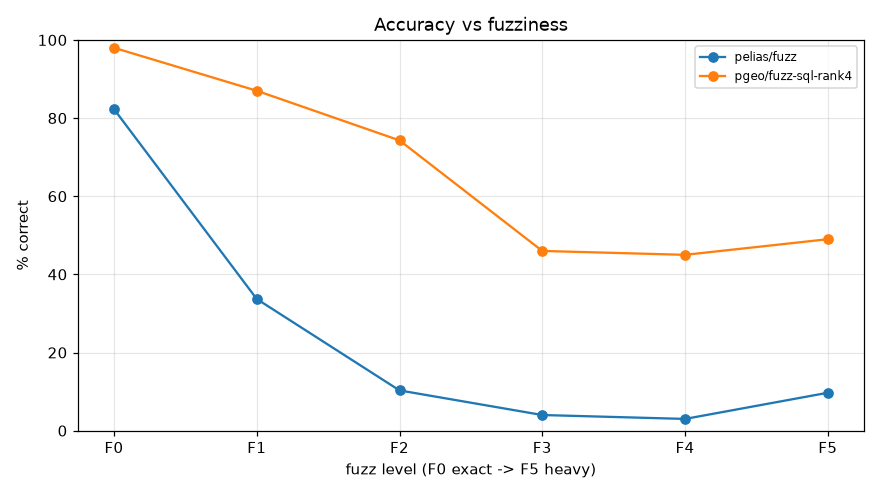
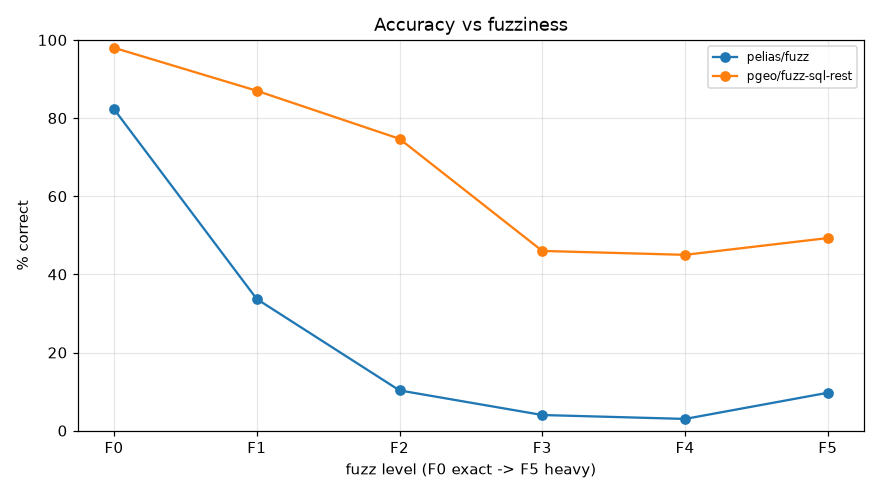
pgeo: address lookup across all towns for the best street names
Fixes false certainty for ambiguous addresses ('21 Church St, Maine'); wrong-answer
confidence 0.73 -> 0.69. Accuracy report regenerated (pgeo 95.8% vs Pelias 75.5%).

diff --git a/docs/ACCURACY_RESULTS.md b/docs/ACCURACY_RESULTS.md
@@ -7,36 +7,36 @@ Test set: `tests/accuracy/cases.json` (seeded; ground truth from the source data
 | Engine / config | Correct | hit@1 | hit@5 | Median error (m) | No result | Conf. when right | Conf. when wrong | p50 ms |
 |---|---|---|---|---|---|---|---|---|
 | pelias/default | 76% | 77% | 84% | 0.0 | 5% | 0.983 | 0.87 | 13.3 |
-| pgeo/api-rule-rank4 | 96% | 94% | 98% | 0.0 | 4% | 0.917 | 0.725 | 45.5 |
-| pgeo/api-service-rank4 | 94% | 92% | 97% | 0.0 | 4% | 0.915 | 0.609 | 44.4 |
-| pgeo/sql-rank4 | 96% | 94% | 98% | 0.0 | 4% | 0.917 | 0.725 | 39.6 |
+| pgeo/api-rule | 96% | 94% | 98% | 0.0 | 4% | 0.918 | 0.686 | 45.6 |
+| pgeo/api-service | 94% | 92% | 97% | 0.0 | 4% | 0.915 | 0.604 | 44.7 |
+| pgeo/sql-rest | 96% | 94% | 98% | 0.0 | 4% | 0.918 | 0.686 | 39.2 |
 
 ## By query quality
 
 | Engine / config | exact | typo | variant | miss |
 |---|---|---|---|---|
 | pelias/default | 88% | 30% | 85% | 41% |
-| pgeo/api-rule-rank4 | 98% | 87% | 95% | 95% |
-| pgeo/api-service-rank4 | 95% | 87% | 93% | 94% |
-| pgeo/sql-rank4 | 98% | 87% | 95% | 95% |
+| pgeo/api-rule | 98% | 87% | 95% | 95% |
+| pgeo/api-service | 96% | 87% | 93% | 94% |
+| pgeo/sql-rest | 98% | 87% | 95% | 95% |
 
 ## By endpoint
 
 | Engine / config | search | structured | autocomplete | reverse |
 |---|---|---|---|---|
 | pelias/default | 66% | 97% | 87% | 100% |
-| pgeo/api-rule-rank4 | 94% | 100% | 95% | 100% |
-| pgeo/api-service-rank4 | 92% | 100% | 95% | 100% |
-| pgeo/sql-rank4 | 94% | 100% | 95% | 100% |
+| pgeo/api-rule | 95% | 100% | 95% | 100% |
+| pgeo/api-service | 92% | 100% | 95% | 100% |
+| pgeo/sql-rest | 95% | 100% | 95% | 100% |
 
 ## By kind of place
 
 | Engine / config | address | town | lake_summit | venue | zip | reverse_address | miss |
 |---|---|---|---|---|---|---|---|
 | pelias/default | 88% | 81% | 37% | 60% | 100% | 100% | 41% |
-| pgeo/api-rule-rank4 | 98% | 96% | 87% | 94% | 98% | 100% | 95% |
-| pgeo/api-service-rank4 | 98% | 96% | 76% | 89% | 98% | 100% | 94% |
-| pgeo/sql-rank4 | 98% | 96% | 87% | 94% | 98% | 100% | 95% |
+| pgeo/api-rule | 98% | 96% | 87% | 94% | 98% | 100% | 95% |
+| pgeo/api-service | 98% | 96% | 76% | 89% | 98% | 100% | 94% |
+| pgeo/sql-rest | 98% | 96% | 87% | 94% | 98% | 100% | 95% |
 
 ## Search detail (endpoint / query type)
 
@@ -49,40 +49,40 @@ Test set: `tests/accuracy/cases.json` (seeded; ground truth from the source data
 | pelias/default | search/typo | 198 | 30% | 30% | 40% | 5249.5 | 13% |
 | pelias/default | search/variant | 149 | 85% | 85% | 87% | 0.0 | 0% |
 | pelias/default | structured/exact | 150 | 97% | 97% | 97% | 0.0 | 0% |
-| pgeo/api-rule-rank4 | autocomplete/exact | 150 | 95% | 81% | 95% | 0.0 | 0% |
-| pgeo/api-rule-rank4 | reverse/exact | 200 | 100% | 100% | 100% | 0.0 | 0% |
-| pgeo/api-rule-rank4 | search/exact | 563 | 97% | 97% | 99% | 0.0 | 0% |
-| pgeo/api-rule-rank4 | search/miss | 150 | 95% | - | - | None | 39% |
-| pgeo/api-rule-rank4 | search/typo | 198 | 87% | 87% | 95% | 0.0 | 2% |
-| pgeo/api-rule-rank4 | search/variant | 149 | 95% | 95% | 97% | 0.0 | 0% |
-| pgeo/api-rule-rank4 | structured/exact | 150 | 100% | 100% | 100% | 0.0 | 0% |
-| pgeo/api-service-rank4 | autocomplete/exact | 150 | 95% | 81% | 95% | 0.0 | 0% |
-| pgeo/api-service-rank4 | reverse/exact | 200 | 100% | 100% | 100% | 0.0 | 0% |
-| pgeo/api-service-rank4 | search/exact | 563 | 93% | 93% | 97% | 0.0 | 0% |
-| pgeo/api-service-rank4 | search/miss | 150 | 94% | - | - | None | 38% |
-| pgeo/api-service-rank4 | search/typo | 198 | 87% | 87% | 94% | 0.0 | 2% |
-| pgeo/api-service-rank4 | search/variant | 149 | 93% | 93% | 94% | 0.0 | 3% |
-| pgeo/api-service-rank4 | structured/exact | 150 | 100% | 100% | 100% | 0.0 | 0% |
-| pgeo/sql-rank4 | autocomplete/exact | 150 | 95% | 81% | 95% | 0.0 | 0% |
-| pgeo/sql-rank4 | reverse/exact | 200 | 100% | 100% | 100% | 0.0 | 0% |
-| pgeo/sql-rank4 | search/exact | 563 | 97% | 97% | 99% | 0.0 | 0% |
-| pgeo/sql-rank4 | search/miss | 150 | 95% | - | - | None | 39% |
-| pgeo/sql-rank4 | search/typo | 198 | 87% | 87% | 95% | 0.0 | 2% |
-| pgeo/sql-rank4 | search/variant | 149 | 95% | 95% | 97% | 0.0 | 0% |
-| pgeo/sql-rank4 | structured/exact | 150 | 100% | 100% | 100% | 0.0 | 0% |
+| pgeo/api-rule | autocomplete/exact | 150 | 95% | 81% | 95% | 0.0 | 0% |
+| pgeo/api-rule | reverse/exact | 200 | 100% | 100% | 100% | 0.0 | 0% |
+| pgeo/api-rule | search/exact | 563 | 97% | 97% | 99% | 0.0 | 0% |
+| pgeo/api-rule | search/miss | 150 | 95% | - | - | None | 39% |
+| pgeo/api-rule | search/typo | 198 | 87% | 87% | 95% | 0.0 | 2% |
+| pgeo/api-rule | search/variant | 149 | 95% | 95% | 97% | 0.0 | 0% |
+| pgeo/api-rule | structured/exact | 150 | 100% | 100% | 100% | 0.0 | 0% |
+| pgeo/api-service | autocomplete/exact | 150 | 95% | 81% | 95% | 0.0 | 0% |
+| pgeo/api-service | reverse/exact | 200 | 100% | 100% | 100% | 0.0 | 0% |
+| pgeo/api-service | search/exact | 563 | 93% | 93% | 97% | 0.0 | 0% |
+| pgeo/api-service | search/miss | 150 | 94% | - | - | None | 38% |
+| pgeo/api-service | search/typo | 198 | 87% | 87% | 94% | 0.0 | 2% |
+| pgeo/api-service | search/variant | 149 | 93% | 93% | 94% | 0.0 | 3% |
+| pgeo/api-service | structured/exact | 150 | 100% | 100% | 100% | 0.0 | 0% |
+| pgeo/sql-rest | autocomplete/exact | 150 | 95% | 81% | 95% | 0.0 | 0% |
+| pgeo/sql-rest | reverse/exact | 200 | 100% | 100% | 100% | 0.0 | 0% |
+| pgeo/sql-rest | search/exact | 563 | 97% | 97% | 99% | 0.0 | 0% |
+| pgeo/sql-rest | search/miss | 150 | 95% | - | - | None | 39% |
+| pgeo/sql-rest | search/typo | 198 | 87% | 87% | 95% | 0.0 | 2% |
+| pgeo/sql-rest | search/variant | 149 | 95% | 95% | 97% | 0.0 | 0% |
+| pgeo/sql-rest | structured/exact | 150 | 100% | 100% | 100% | 0.0 | 0% |
 
 ```mermaid
 xychart-beta
     title "Correct % on exact queries"
-    x-axis ["pelias/default", "pgeo/api-rule-rank4", "pgeo/api-service-rank4", "pgeo/sql-rank4"]
+    x-axis ["pelias/default", "pgeo/api-rule", "pgeo/api-service", "pgeo/sql-rest"]
     y-axis "%" 0 --> 100
-    bar [88, 98, 95, 98]
+    bar [88, 98, 96, 98]
 ```
 
 ```mermaid
 xychart-beta
     title "Correct % on typo queries"
-    x-axis ["pelias/default", "pgeo/api-rule-rank4", "pgeo/api-service-rank4", "pgeo/sql-rank4"]
+    x-axis ["pelias/default", "pgeo/api-rule", "pgeo/api-service", "pgeo/sql-rest"]
     y-axis "%" 0 --> 100
     bar [30, 87, 87, 87]
 ```
@@ -90,7 +90,7 @@ xychart-beta
 ```mermaid
 xychart-beta
     title "Correct % on variant queries"
-    x-axis ["pelias/default", "pgeo/api-rule-rank4", "pgeo/api-service-rank4", "pgeo/sql-rank4"]
+    x-axis ["pelias/default", "pgeo/api-rule", "pgeo/api-service", "pgeo/sql-rest"]
     y-axis "%" 0 --> 100
     bar [85, 95, 93, 95]
 ```
@@ -98,7 +98,7 @@ xychart-beta
 ```mermaid
 xychart-beta
     title "Correct % on miss queries"
-    x-axis ["pelias/default", "pgeo/api-rule-rank4", "pgeo/api-service-rank4", "pgeo/sql-rank4"]
+    x-axis ["pelias/default", "pgeo/api-rule", "pgeo/api-service", "pgeo/sql-rest"]
     y-axis "%" 0 --> 100
     bar [41, 95, 94, 95]
 ```
@@ -110,35 +110,35 @@ Same 300 base queries at every level: F0 exact, F1 one typo, F2 two, F3 three + 
 | Engine / config | F0 | F1 | F2 | F3 | F4 | F5 |
 |---|---|---|---|---|---|---|
 | pelias/fuzz | 82% | 34% | 10% | 4% | 3% | 10% |
-| pgeo/fuzz-sql-rank4 | 98% | 87% | 74% | 46% | 45% | 49% |
+| pgeo/fuzz-sql-rest | 98% | 87% | 75% | 46% | 45% | 49% |
 
 **address**
 
 | Engine / config | F0 | F1 | F2 | F3 | F4 | F5 |
 |---|---|---|---|---|---|---|
 | pelias/fuzz | 97% | 45% | 15% | 7% | 4% | 13% |
-| pgeo/fuzz-sql-rank4 | 99% | 95% | 88% | 47% | 42% | 59% |
+| pgeo/fuzz-sql-rest | 99% | 95% | 89% | 47% | 42% | 60% |
 
 **town**
 
 | Engine / config | F0 | F1 | F2 | F3 | F4 | F5 |
 |---|---|---|---|---|---|---|
 | pelias/fuzz | 92% | 26% | 6% | 0% | 4% | 12% |
-| pgeo/fuzz-sql-rank4 | 98% | 78% | 48% | 30% | 42% | 34% |
+| pgeo/fuzz-sql-rest | 98% | 78% | 48% | 30% | 42% | 34% |
 
 **lake_summit**
 
 | Engine / config | F0 | F1 | F2 | F3 | F4 | F5 |
 |---|---|---|---|---|---|---|
 | pelias/fuzz | 38% | 18% | 4% | 0% | 2% | 2% |
-| pgeo/fuzz-sql-rank4 | 98% | 84% | 72% | 56% | 54% | 38% |
+| pgeo/fuzz-sql-rest | 98% | 84% | 72% | 56% | 54% | 38% |
 
 **venue**
 
 | Engine / config | F0 | F1 | F2 | F3 | F4 | F5 |
 |---|---|---|---|---|---|---|
 | pelias/fuzz | 72% | 22% | 6% | 2% | 0% | 4% |
-| pgeo/fuzz-sql-rank4 | 96% | 76% | 62% | 50% | 48% | 44% |
+| pgeo/fuzz-sql-rest | 96% | 76% | 62% | 50% | 48% | 44% |
 
 ```mermaid
 xychart-beta
@@ -150,10 +150,10 @@ xychart-beta
 
 ```mermaid
 xychart-beta
-    title "pgeo/fuzz-sql-rank4: % correct by fuzz level"
+    title "pgeo/fuzz-sql-rest: % correct by fuzz level"
     x-axis [F0, F1, F2, F3, F4, F5]
     y-axis "%" 0 --> 100
-    line [98, 87, 74, 46, 45, 49]
+    line [98, 87, 75, 46, 45, 49]
 ```
 
 ![accuracy vs fuzz](accuracy/accuracy-vs-fuzz.png)

diff --git a/docs/PGEO_TUNING.md b/docs/PGEO_TUNING.md
@@ -48,4 +48,14 @@ Open items from this round:
 | 2026-09-18 | Ambiguity-aware confidence: when several distinct places (~1 km grid) tie with the top confidence, their confidence is divided by 1 + 0.35 x (places - 1) | Wrong answers were mostly ties (70 of 85 wrong exact matches had 2+ equal candidates; 746 of 887 right ones were unique) | rule parser 92.7% -> 92.9%, misses 93% -> 95%; confidence right/wrong 0.94/0.90 -> **0.91/0.70** (Pelias 0.98/0.87) | none |
 | 2026-09-18 | Name targets drop a trailing state/country ("portlnd me" -> "portlnd"); name candidates tie-broken by distance to the focus point before the 40/60-row limits; +0.1 x whole-string similarity as a tie-breaker over word_similarity; lower-ranked hits capped at the reduced top confidence; autocomplete typo fallback deduped by label | "Portlnd, ME" returned Overture venues named "Portland, ME" and no town (the state word matched them); "main st" near Bangor: hundreds of exact "Main Street" rows were cut to an arbitrary 40 before the focus boost applied, so Bangor's never competed; every name containing "portland" tied on word_similarity | pure SQL 92.9% -> **93.1%** (venue typos 32 -> 34 of 42, lakes exact 70 -> 71; 4 fixed, 1 lost); fuzz F0-F5 94.3 / 85.0 / 74.0 / 46.0 / 44.7 / 49.0 (was 94.0 / 83.7 / 73.3 / 46.3 / 44.3 / 48.7); calibration 0.91 / 0.71 | p50 40 ms (unchanged) |
 | 2026-09-18 | Venue/lake failure analysis. (1) The bare town is a name target only when no name part was parsed; (2) the queried town is resolved to its location(s), which anchor same-name tie-breaks when there is no focus and count as town agreement by distance for non-address results (exp(-d/6 km)); (3) an admin result auto-agrees only for bare-town queries; (4) ambiguity: when a town is among the ties, only other towns count as rivals | 36 of 47 venue/lake exact failures shared two causes: "Subway, Cumberland Mills" matched the town exactly (conf 1.0) instead of the venue, and the query's town is often a village or nearest town, not the containing one ("Calvary Bible Church, Stratton" is in Eustis). Bare towns ("Portland, Maine") scored 0.59 because same-named venues counted as rivals | pure SQL 93.1% -> **95.8%**: venues exact 148 -> 172 of 183, venue typos 34 -> 40 of 42, lakes/summits exact 71 -> 79 of 83; towns -2 (two Maine names that exist twice, coin flips). Fuzz F0-F5 **98.0** / 87.0 / 74.3 / 46.0 / 45.0 / 49.0. FastAPI + rule parser identical (95.8%); libpostal service 93.9%. Confidence right/wrong 0.92 / 0.73 | p50 40 ms (unchanged) |
+| 2026-09-18 | Address lookup also takes the house number on the 3 best street names in *any* town (index feature_addr_street_hn_idx), not only the 25 (street, town) pairs the street step keeps | "21 Church St, Maine": ~150 Church Streets, 25 kept arbitrarily, one had #21, so an ambiguous query looked unique at confidence 1.0 | 95.8% (addresses exact +1); confidence right/wrong 0.92 / **0.69** (was 0.73); fuzz unchanged | none |
+
+Remaining failures (66 of 1,560) after this round:
+
+- 8 of the 150 "misses" exist in Maine ("Death Valley" in Minot x7, "The Eiffel Tower of Paris, Maine"):
+  test-set errors, to be removed from the miss list when both engines are re-run.
+- Duplicate chain branches and duplicate place names (Yianni's House of Pizza, two Higgins
+  Corners, 04732 in two towns): genuinely ambiguous; confidence is low, as intended.
+- Typos in both the name and the town (14 lake/summit typo cases): the hardest class.
+- 6 autocomplete venue cases: the right venue is outside the top 5 of short prefixes.
 
